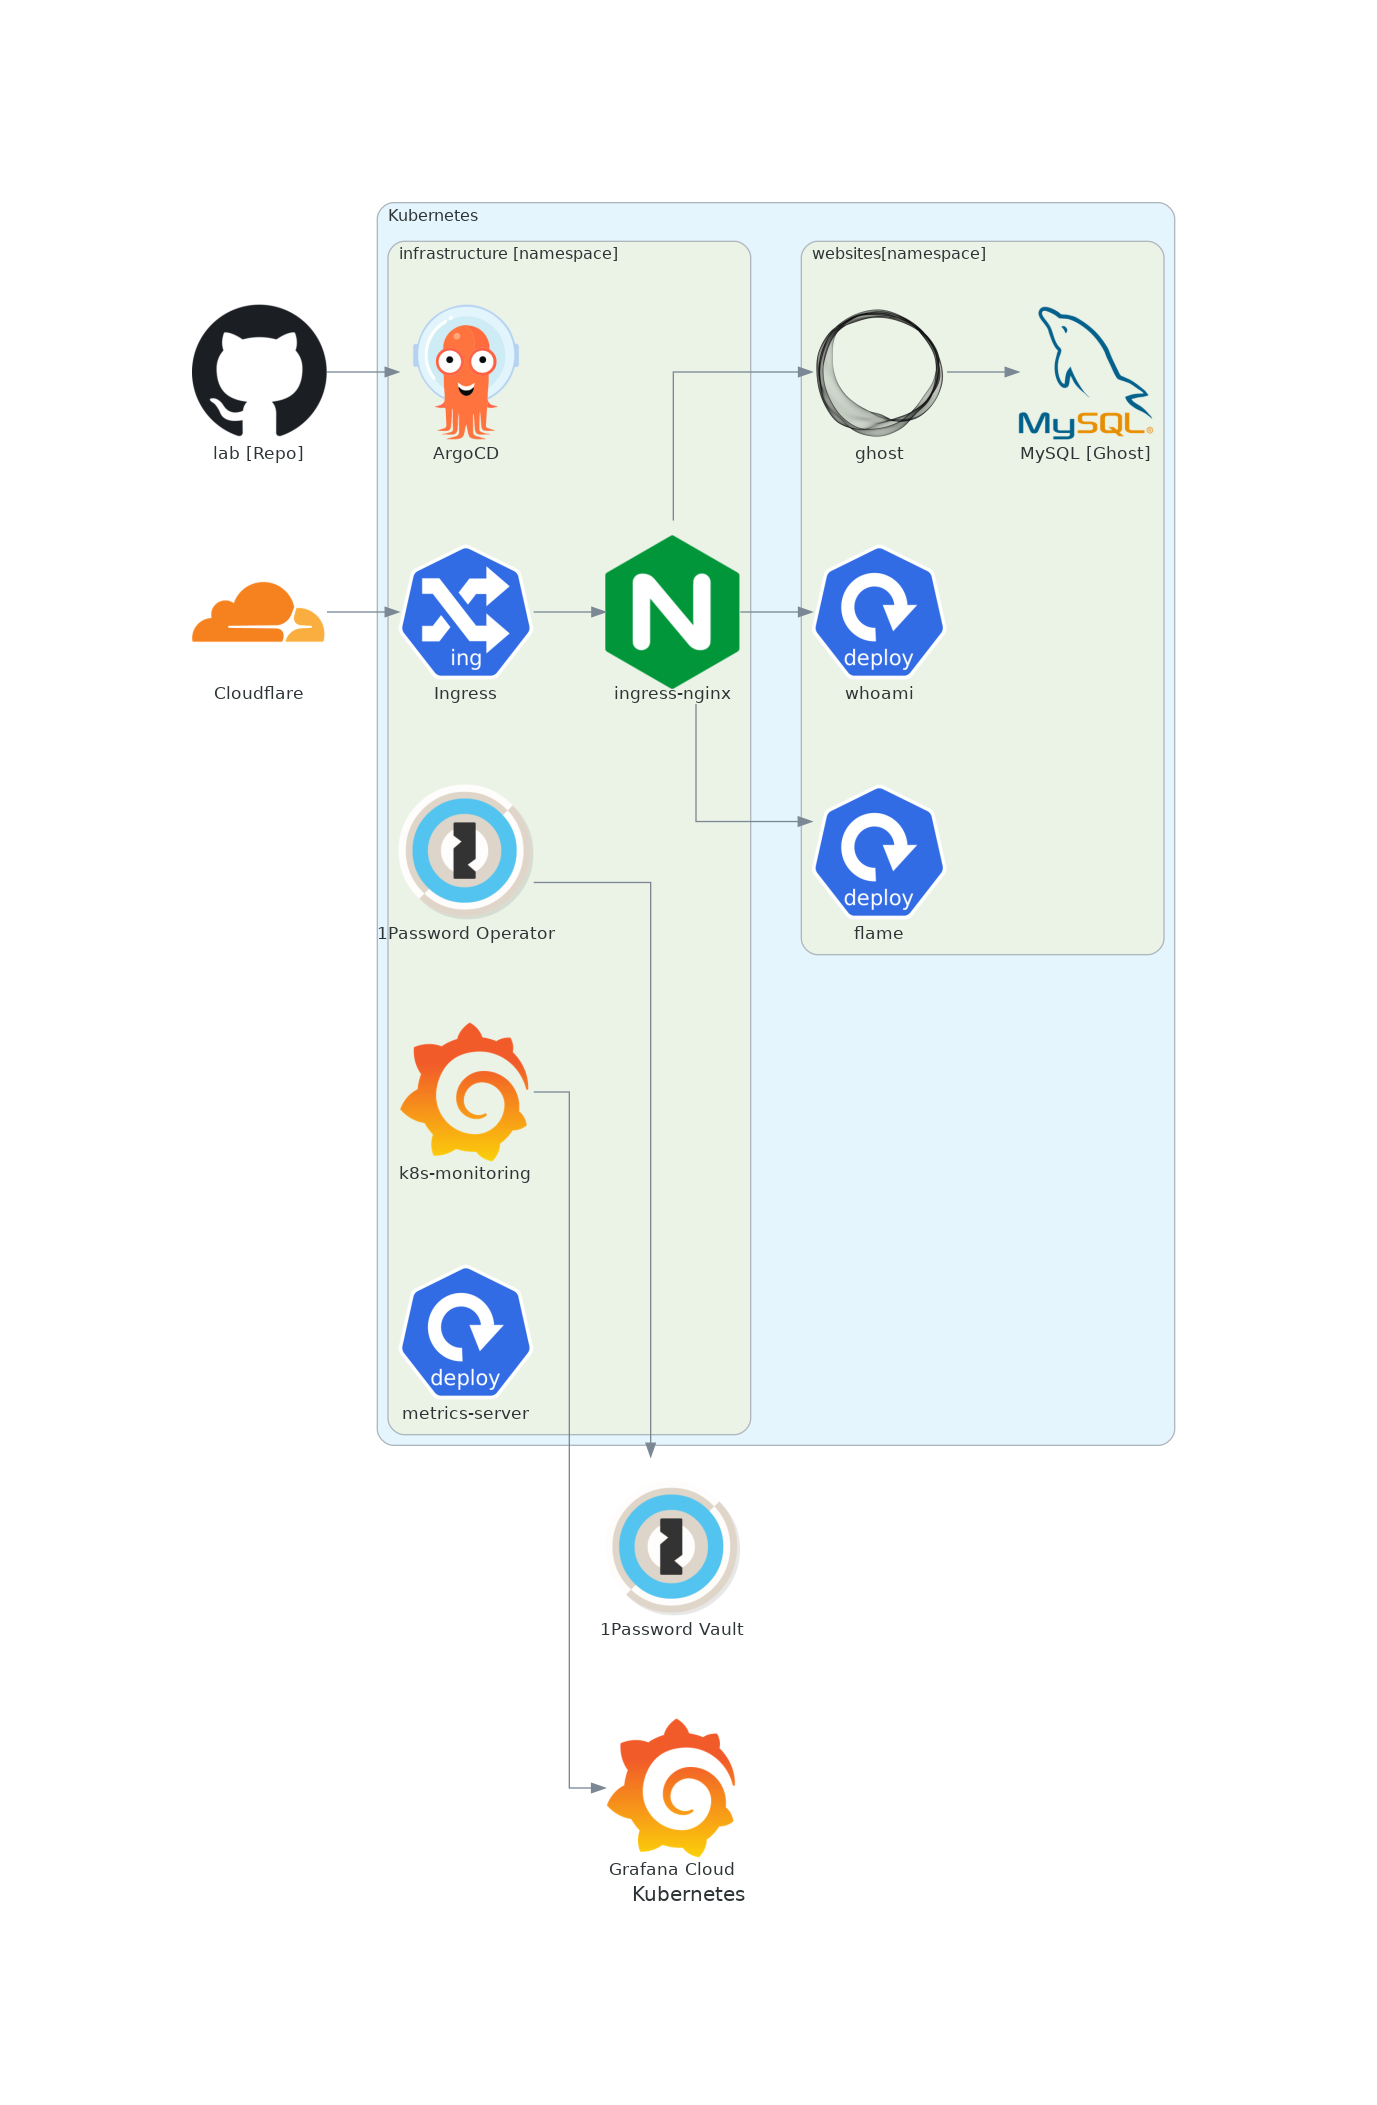
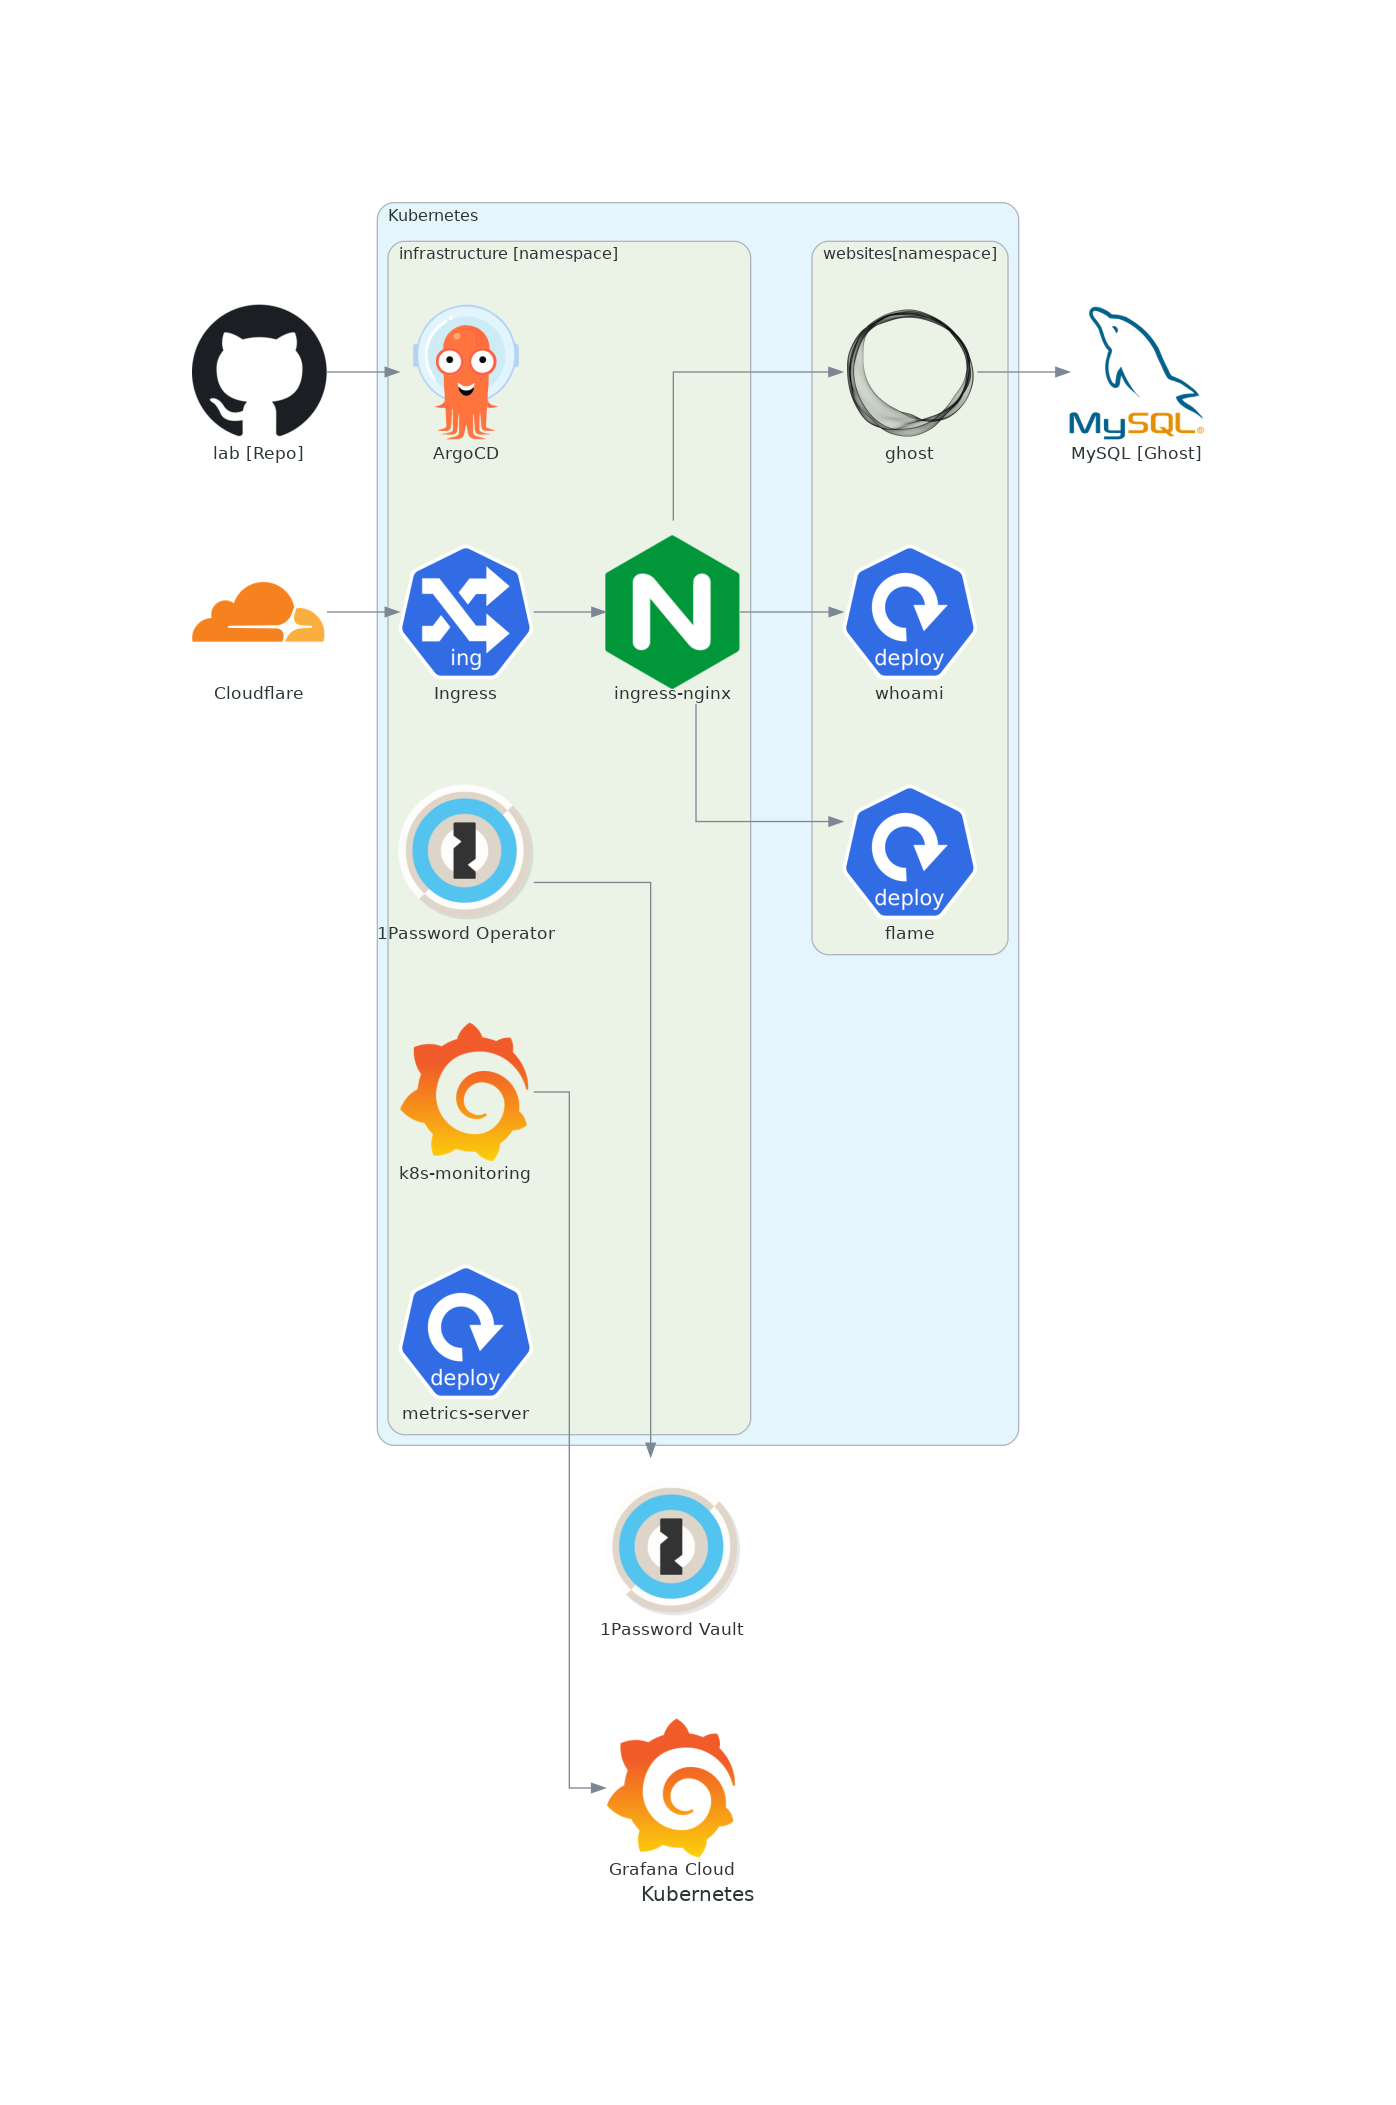
Update diagrams for latest changes. (#119)
* Update diagrams for latest changes.

* Fix ruff configurations.

diff --git a/docs/diagrams/infrastructure.py b/docs/diagrams/infrastructure.py
@@ -5,6 +5,7 @@ from diagrams.custom import Custom
 from diagrams.digitalocean.compute import K8SCluster, K8SNodePool
 from diagrams.oci.monitoring import HealthCheck
 from diagrams.oci.network import Firewall, LoadBalancer
+from diagrams.onprem.database import MySQL
 from diagrams.onprem.monitoring import Grafana
 from diagrams.saas.cdn import Cloudflare
 
@@ -28,6 +29,9 @@ with Diagram(
             cluster = K8SCluster("lab [k8s cluster]")
             xsmall_nodes = K8SNodePool("Node Pool [xsmall]")
             small_nodes = K8SNodePool("Node Pool [small]")
+            medium_nodes = K8SNodePool("Node Pool [medium]")
+
+            mysql = MySQL("MySQL")
 
     with Cluster("Home Network"):
         unifi_gateway = Custom("Unifi Gateway", "../imgs/ubiquiti.png")
@@ -39,7 +43,7 @@ with Diagram(
         >> firewall
         >> load_balancer
         >> cluster
-        >> [xsmall_nodes, small_nodes]
+        >> [xsmall_nodes, small_nodes, medium_nodes]
     )
 
     cluster >> Edge(label="metrics and logs") >> grafana

diff --git a/docs/diagrams/kubernetes.py b/docs/diagrams/kubernetes.py
@@ -17,6 +17,7 @@ with Diagram("Kubernetes", filename=diagram_filename, outformat=["png"], show=Fa
     grafana_cloud = Grafana("Grafana Cloud")
     lab_repo = Github("lab [Repo]")
     cloudflare = Cloudflare("Cloudflare")
+    ghost_mysql = MySQL("MySQL [Ghost]")
 
     with Cluster("Kubernetes"):
         with Cluster("infrastructure [namespace]"):
@@ -33,7 +34,6 @@ with Diagram("Kubernetes", filename=diagram_filename, outformat=["png"], show=Fa
 
         with Cluster("websites[namespace]"):
             ghost = Custom("ghost", "../imgs/ghost.png")
-            ghost_mysql = MySQL("MySQL [Ghost]")
             whoami = Deployment("whoami")
             flame = Deployment("flame")
 
